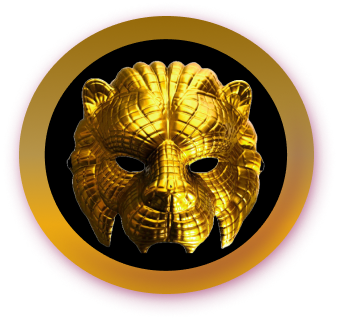
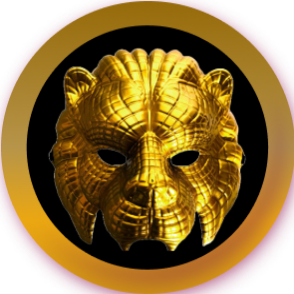
fix

diff --git a/src/components/Prizes.tsx b/src/components/Prizes.tsx
@@ -7,22 +7,21 @@ const Prizes = () => {
     filter: "brightness(0.15)",
   };
 
-
   return (
-    <div className="relative py-20 mb-10">
-         <div
-            className="absolute inset-0 -z-10 bg-cover bg-center"
-            style={backgroundStyle}
-          ></div>
+    <div className="relative min-h-screen py-20 mb-10">
+      <div
+        className="absolute inset-0 -z-10 bg-cover bg-center"
+        style={backgroundStyle}
+      ></div>
       <h1 className="text-8xl text-center ">Prizes!</h1>
       <div className="flex md:flex-row flex-col w-full justify-between container mx-auto text-center items-center">
         <div className="">
           <Image
             src="/prize2.png"
             alt="prize2"
-            height={1000}
-            width={1000}
-            className="w-full md:mt-60"
+            height={10000}
+            width={10000}
+            className="w-full md:mt-60 rounded-full shadow-lg hover:scale-105 ease-in-out duration-300 hover:shadow-xl hover:shadow-thered shadow-thered mb-6"
           />
           <h2 className="text-4xl">
             2nd Prize <br /> 25,000₹
@@ -32,9 +31,9 @@ const Prizes = () => {
           <Image
             src="/prize1.png"
             alt="prize1"
-            height={1000}
-            width={1000}
-            className="w-full"
+            height={10000}
+            width={10000}
+            className="w-full rounded-full shadow-lg shadow-thered mb-6 hover:scale-105 ease-in-out duration-300 hover:shadow-xl hover:shadow-thered"
           />
           <h2 className="text-4xl">
             1st Prize <br /> 50,000₹
@@ -44,9 +43,9 @@ const Prizes = () => {
           <Image
             src="/prize3.png"
             alt="prize3"
-            height={1000}
-            width={1000}
-            className="w-full md:mt-60"
+            height={10000}
+            width={10000}
+            className="w-full md:mt-60 rounded-full shadow-lg shadow-thered mb-6 hover:scale-105 ease-in-out duration-300 hover:shadow-xl hover:shadow-thered"
           />
           <h2 className="text-4xl">
             3rd Prize <br /> 10,000₹
